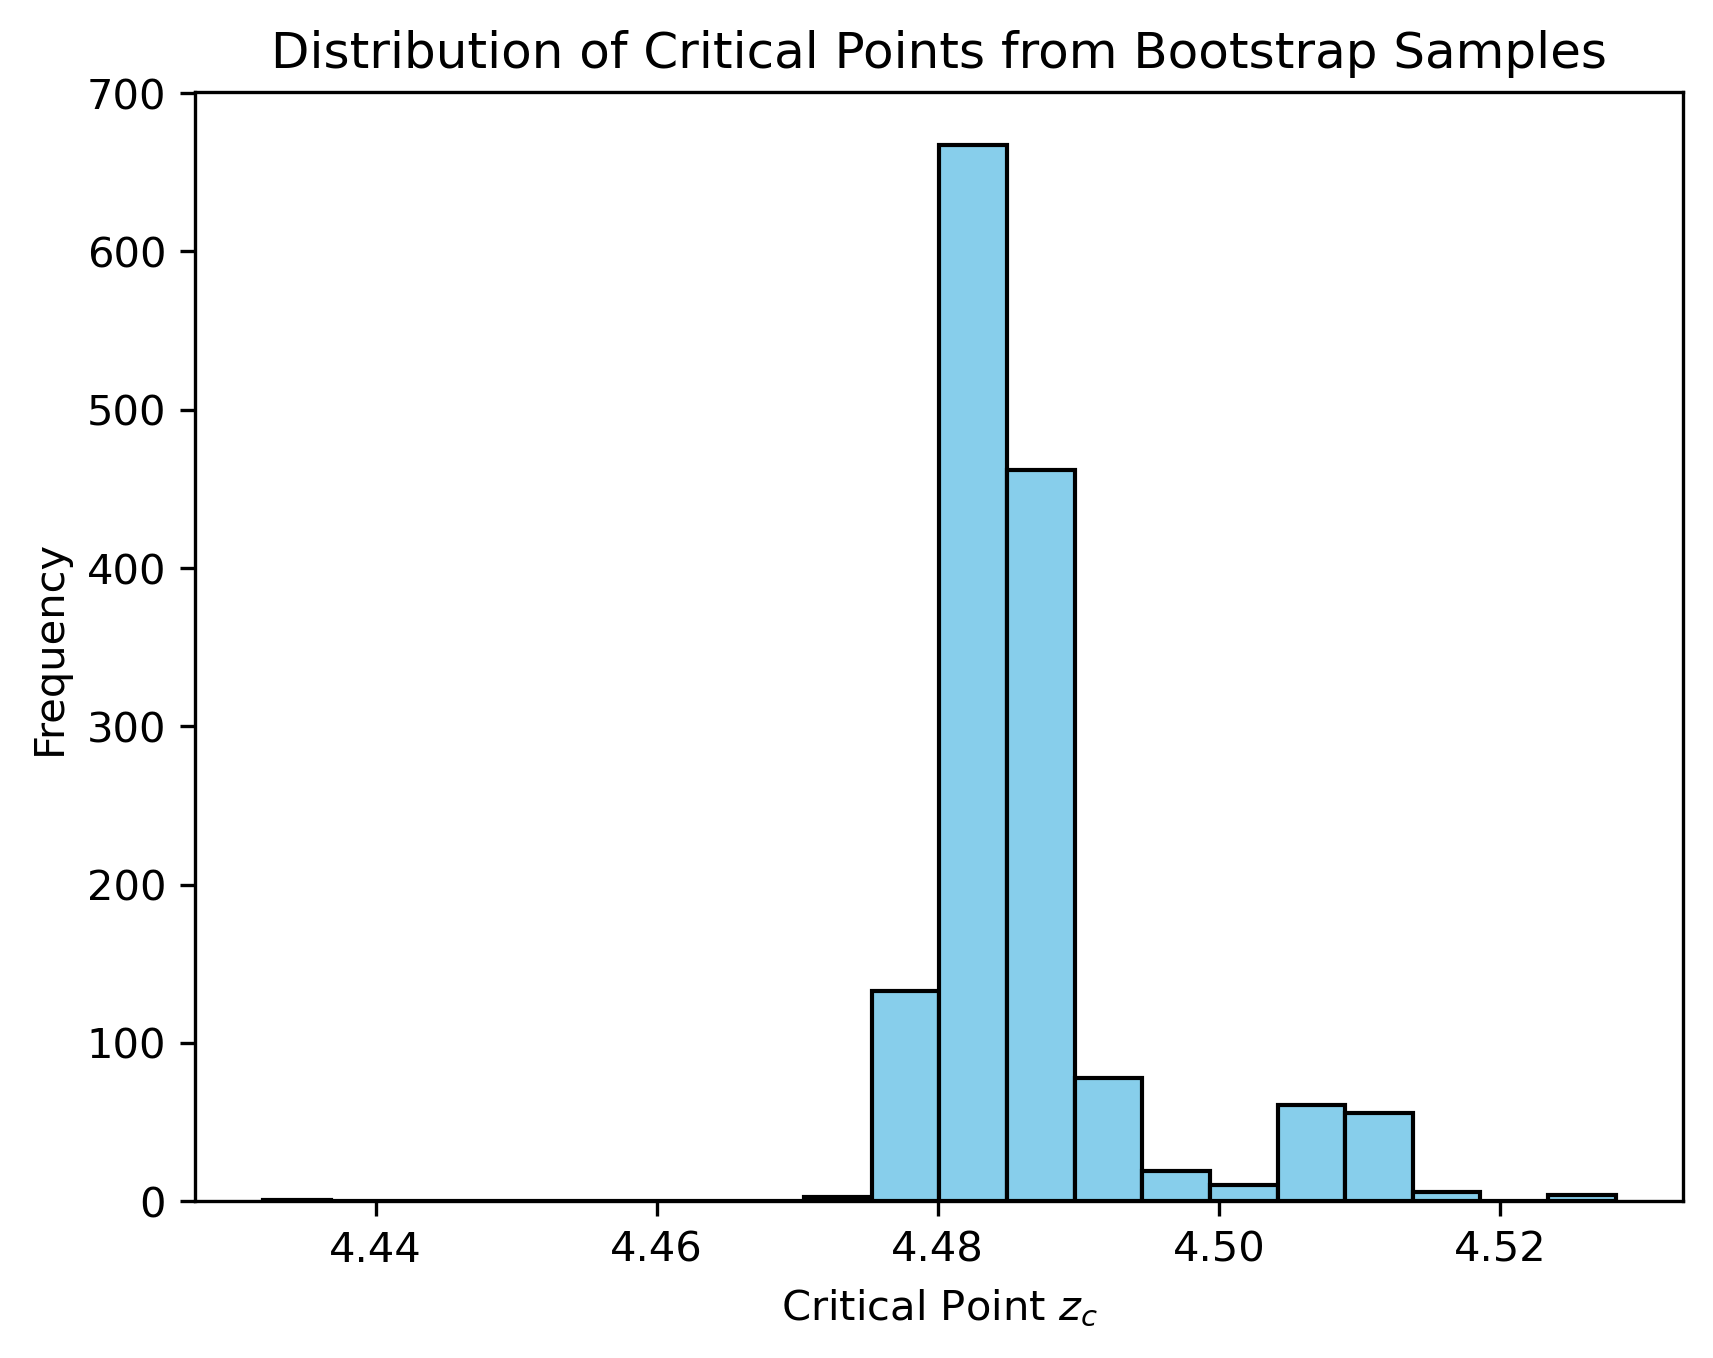
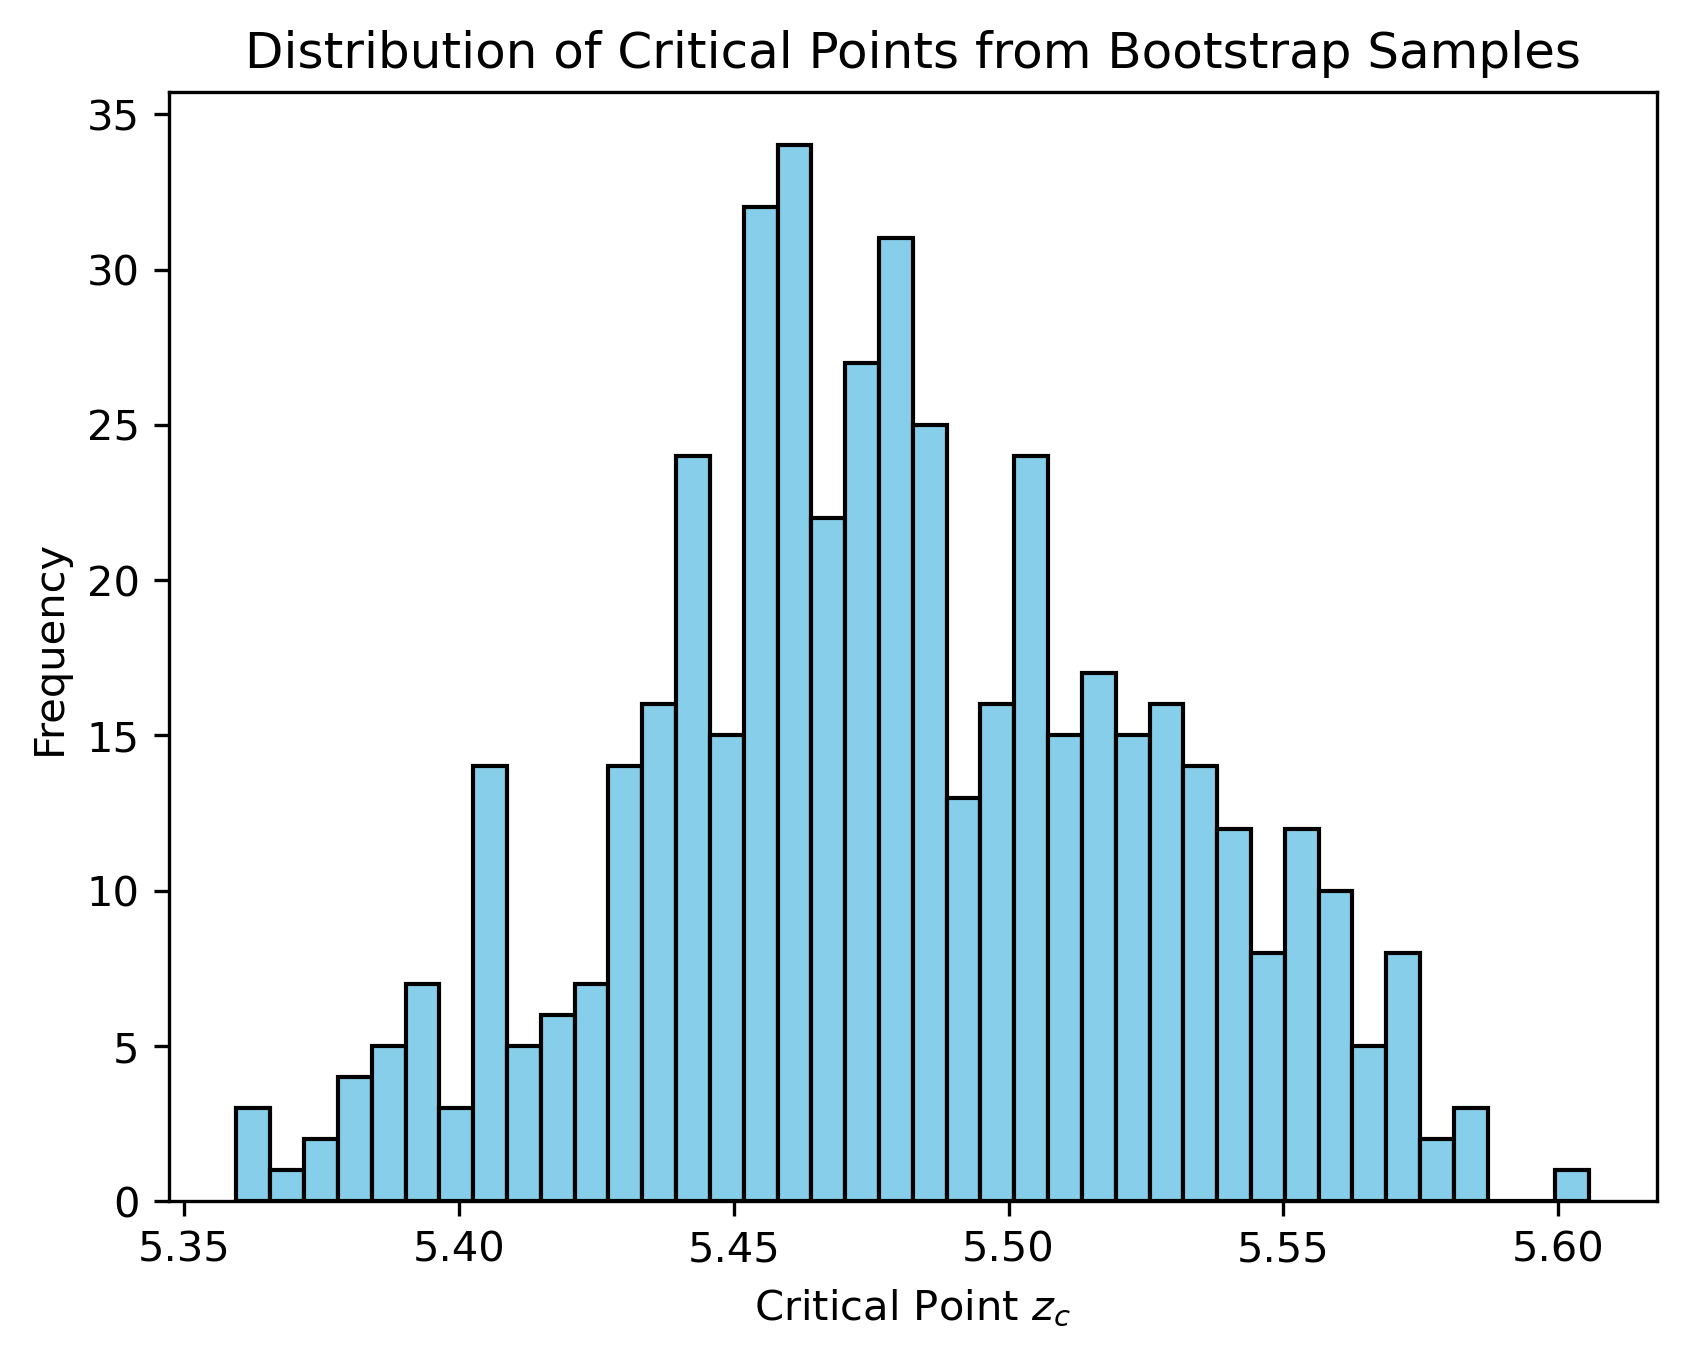
Analysis

Changed region(s): [[0.0308, 0.0619, 0.9561, 0.9897], [0.1542, 0.0, 0.9253, 0.0619]]

diff --git a/src/actions/processor.py b/src/actions/processor.py
@@ -24,8 +24,11 @@ def crossing_fit(L, zc, A):
 param = "demixed"        # type of order parameter
 N = 1500                 # number of bootstrap samples
 burn_in = 10000           # number of initial samples to discard for equilibration
-cubic_spline = True     # whether to use cubic spline interpolation for root finding
-fixed_window = False      # whether to use a fixed window for root finding
+cubic_spline = False     # whether to use cubic spline interpolation for root finding
+fixed_window = True      # whether to use a fixed window for root finding
+generate_graphs = True      # whether to generate graphs for each bootstrap sample
+reset_bootstrap = True  # cancel a bootstrap sample if no intersection is found
+
 
 files = glob.glob(os.path.join("/home/tashfiq/wr_lattice/src/actions/bootstrap_graphs", "*"))
 for f in files:
@@ -95,6 +98,7 @@ if __name__ == '__main__':
         batches.set_description(f"Processing bootstrap samples")
         int_pts_i = np.array([])
         prev_L = None
+        skip_next = False
 
         for L, z_map in sorted_container.items():
             
@@ -130,12 +134,16 @@ if __name__ == '__main__':
                 all_roots = roots[np.isreal(roots)].real
                 all_roots = all_roots[(all_roots >= min_z) & (all_roots <= max_z)]
 
-            guess = 4.46
+            guess = 5.26
 
             if len(all_roots) == 0:
-                no_root_found = True
-                all_roots = guess
-                int_pts_i = np.append(int_pts_i, all_roots)  
+                no_root_found = True  
+                if reset_bootstrap:
+                    skip_next = True
+                    break
+                else:
+                    all_roots = guess
+                    int_pts_i = np.append(int_pts_i, guess)
             elif len(all_roots) > 1:
                 more_than_one_root = True
                 correct = np.argmin(np.abs(all_roots - guess))
@@ -145,24 +153,36 @@ if __name__ == '__main__':
                 int_pts_i = np.append(int_pts_i, all_roots.item())
 
             prev_L = L
-        
+        if skip_next:
+            continue
         int_pts = np.vstack([int_pts, int_pts_i]) if int_pts.size else int_pts_i
 
-        # Plot cumulant U_L vs activity (z) for this bootstrap sample.
-        plt.figure()
-        for L, z_map in sorted_container.items():
-            zs = np.array(sorted(z_map.keys()))
-            u_values = np.array([z_map[z]['avgs'][i] for z in zs])
-            plt.plot(zs, u_values, marker='o', linestyle='-', label=f'L={L}')
+        if generate_graphs:
+            # Plot cumulant U_L vs activity (z) for this bootstrap sample.
+            plt.figure()
+            for L, z_map in sorted_container.items():
+                zs = np.array(sorted(z_map.keys()))
+                u_values = np.array([z_map[z]['avgs'][i] for z in zs])
+                plt.plot(zs, u_values, marker='o', linestyle='None', label=f'L={L}')
 
-        plt.xlabel('Activity $z$')
-        plt.ylabel(r'Cumulant $U_L$')
-        plt.title(f'Bootstrap sample {i+1}: $U_L$ vs activity')
-        plt.legend(fontsize='small', loc='best')
-        plt.tight_layout()
-        sample_path = os.path.join(graphs_dir, f'bootstrap_sample_{i+1:04d}.png')
-        plt.savefig(sample_path, dpi=300, bbox_inches='tight')
-        plt.close()
+                zs_smooth = np.linspace(zs.min(), zs.max(), 200)
+                if cubic_spline:
+                    cs = CubicSpline(zs, u_values, bc_type='natural')
+                    fit_values = cs(zs_smooth)
+                    plt.plot(zs_smooth, fit_values, linestyle='-', label=f'L={L} spline fit')
+                else:
+                    coeffs = np.polyfit(zs, u_values, 3)
+                    fit_values = np.polyval(coeffs, zs_smooth)
+                    plt.plot(zs_smooth, fit_values, linestyle='-', label=f'L={L} cubic fit')
+
+            plt.xlabel('Activity $z$')
+            plt.ylabel(r'Cumulant $U_L$')
+            plt.title(f'Bootstrap sample {i+1}: $U_L$ vs activity')
+            plt.legend(fontsize='small', loc='best')
+            plt.tight_layout()
+            sample_path = os.path.join(graphs_dir, f'bootstrap_sample_{i+1:04d}.png')
+            plt.savefig(sample_path, dpi=300, bbox_inches='tight')
+            plt.close()
 
         '''
         print()
@@ -193,16 +213,29 @@ if __name__ == '__main__':
     plt.savefig('finite-size_scaling.png', dpi=300, bbox_inches='tight')
     
     plt.figure()
-    plt.hist(critical_points, bins=20, color='skyblue', edgecolor='black')
+    plt.hist(critical_points, bins=40, color='skyblue', edgecolor='black')
     plt.title('Distribution of Critical Points from Bootstrap Samples')
     plt.xlabel('Critical Point $z_c$')
     plt.ylabel('Frequency')
     plt.savefig('zc_distribution.png', dpi=300, bbox_inches='tight')
 
+    for i in range(int_pts.shape[1]):
+        plt.figure()
+        plt.hist(int_pts[:, i], bins=40, color='skyblue', edgecolor='black')
+        plt.title('Distribution of Intersection Points for L={}'.format(L_finite[i]))
+        plt.xlabel('Intersection Point $z_c(L)$')
+        plt.ylabel('Frequency')
+        plt.savefig('intersection_distribution_L_{}.png'.format(L_finite[i]), dpi=300, bbox_inches='tight')
+
+    print()
     if more_than_one_root:
         print("Warning: More than one intersection was found for some bootstrap samples.")
     if no_root_found:
         print("Warning: No intersection was found for some bootstrap samples.")
+    print()
+    if reset_bootstrap:
+        print("Bootstrap samples with no intersection were skipped due to reset_bootstrap=True. Total valid bootstrap samples: {}".format(int_pts.shape[0]))
+        print("Number of discarded samples: {}".format(N - int_pts.shape[0]))
 
 
 

diff --git a/init.py b/init.py
@@ -15,19 +15,17 @@ for item in os.listdir(directory):
         shutil.rmtree(item_path)
 
 
-arr = [30, 40, 50, 60, 70]
+arr = [30, 36, 42, 48, 52]
 
 
-z_vals = np.array([4.46, 4.47, 4.48, 4.49, 4.50, 4.51])
+z_vals = np.round(np.linspace(5.42, 5.52, 16), 3)
 
-rounded_z_vals = np.round(z_vals, 3)
-
-M_vals = [6]
-R = 100 
+M_vals = [7]
+R = 70 
 
 
 for L in arr:
-    for z in rounded_z_vals:
+    for z in z_vals:
         for M in M_vals:
             for r in range(1, R+1): 
                 sp = {"z": float(z), "M": M, "L": L, "lat": "square", "run": r}

diff --git a/src/tests/phase_d.py b/src/tests/phase_d.py
@@ -1,9 +1,9 @@
 import matplotlib.pyplot as plt
 
 # Define the data
-M_values = [2, 3, 4, 5]
-critical_points = [2.056008935464906, 2.624206629061214, 3.190114834094382, 3.799517068220771]
-errors = [0.0018052727696703443, 0.0008050062400761917, 0.00035936786321159777, 7.991029201272262e-05]
+M_values = [2, 3, 4, 5, 6]
+critical_points = [2.056008935464906, 2.624206629061214, 3.190114834094382, 3.799517068220771, 4.490890918695779]
+errors = [0.0018052727696703443, 0.0008050062400761917, 0.00035936786321159777, 7.991029201272262e-05, 0.0128062764337953]
 
 # Plot with error bars
 # fmt='o-' creates a line with circular markers